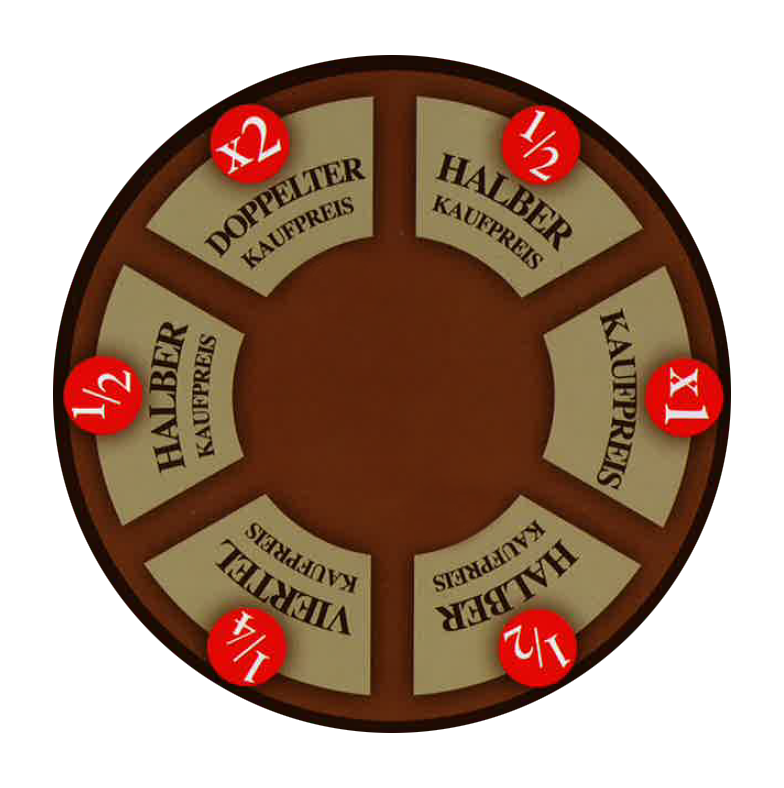
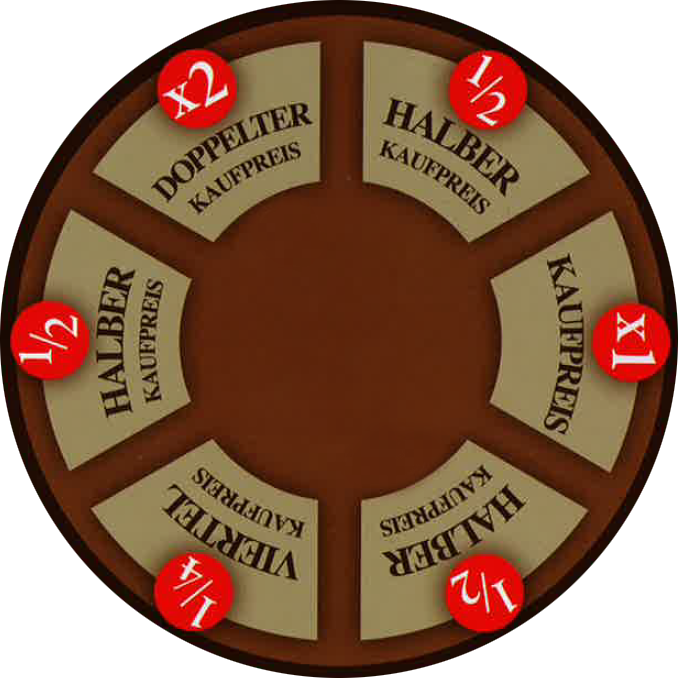
#44 Fix Image Size and position issue

diff --git a/core/src/com/mankomania/game/screens/AuctionScreen.java b/core/src/com/mankomania/game/screens/AuctionScreen.java
@@ -66,15 +66,16 @@ public class AuctionScreen extends ScreenAdapter {
         Texture wheel = new Texture(Gdx.files.internal("auctionwheel.png"));
         Image auctionwheelImg = new Image(wheel);
 
-        auctionwheelImg.setWidth(.5f * Gdx.graphics.getWidth());
-        auctionwheelImg.setScaling(Scaling.fillX);
+        auctionwheelImg.setHeight(.8f * Gdx.graphics.getHeight());
+        auctionwheelImg.setScaling(Scaling.fillY);
         auctionwheelImg.setOrigin(Align.center);
         auctionwheelImg.setPosition(Gdx.graphics.getWidth() / 2f - auctionwheelImg.getWidth() / 2f, Gdx.graphics.getHeight() / 2f - auctionwheelImg.getHeight() / 2f);
 
         Texture wheelPoint = new Texture(Gdx.files.internal("wheel-pointer.png"));
         Image wheelPointer = new Image(wheelPoint);
+        wheelPointer.setScale(0.8f);
         wheelPointer.setOrigin(Align.center);
-        wheelPointer.setPosition(Gdx.graphics.getWidth() / 2f - wheelPointer.getWidth() / 2f, Gdx.graphics.getHeight() / 2f + auctionwheelImg.getHeight() /2f);
+        wheelPointer.setPosition(Gdx.graphics.getWidth() / 2f - wheelPointer.getWidth() / 2f, Gdx.graphics.getHeight() / 2f + auctionwheelImg.getHeight() /2f - wheelPointer.getHeight()/2f);
 
         rotate.setRotation(spinsDeg);
         rotate.setDuration(2f);
